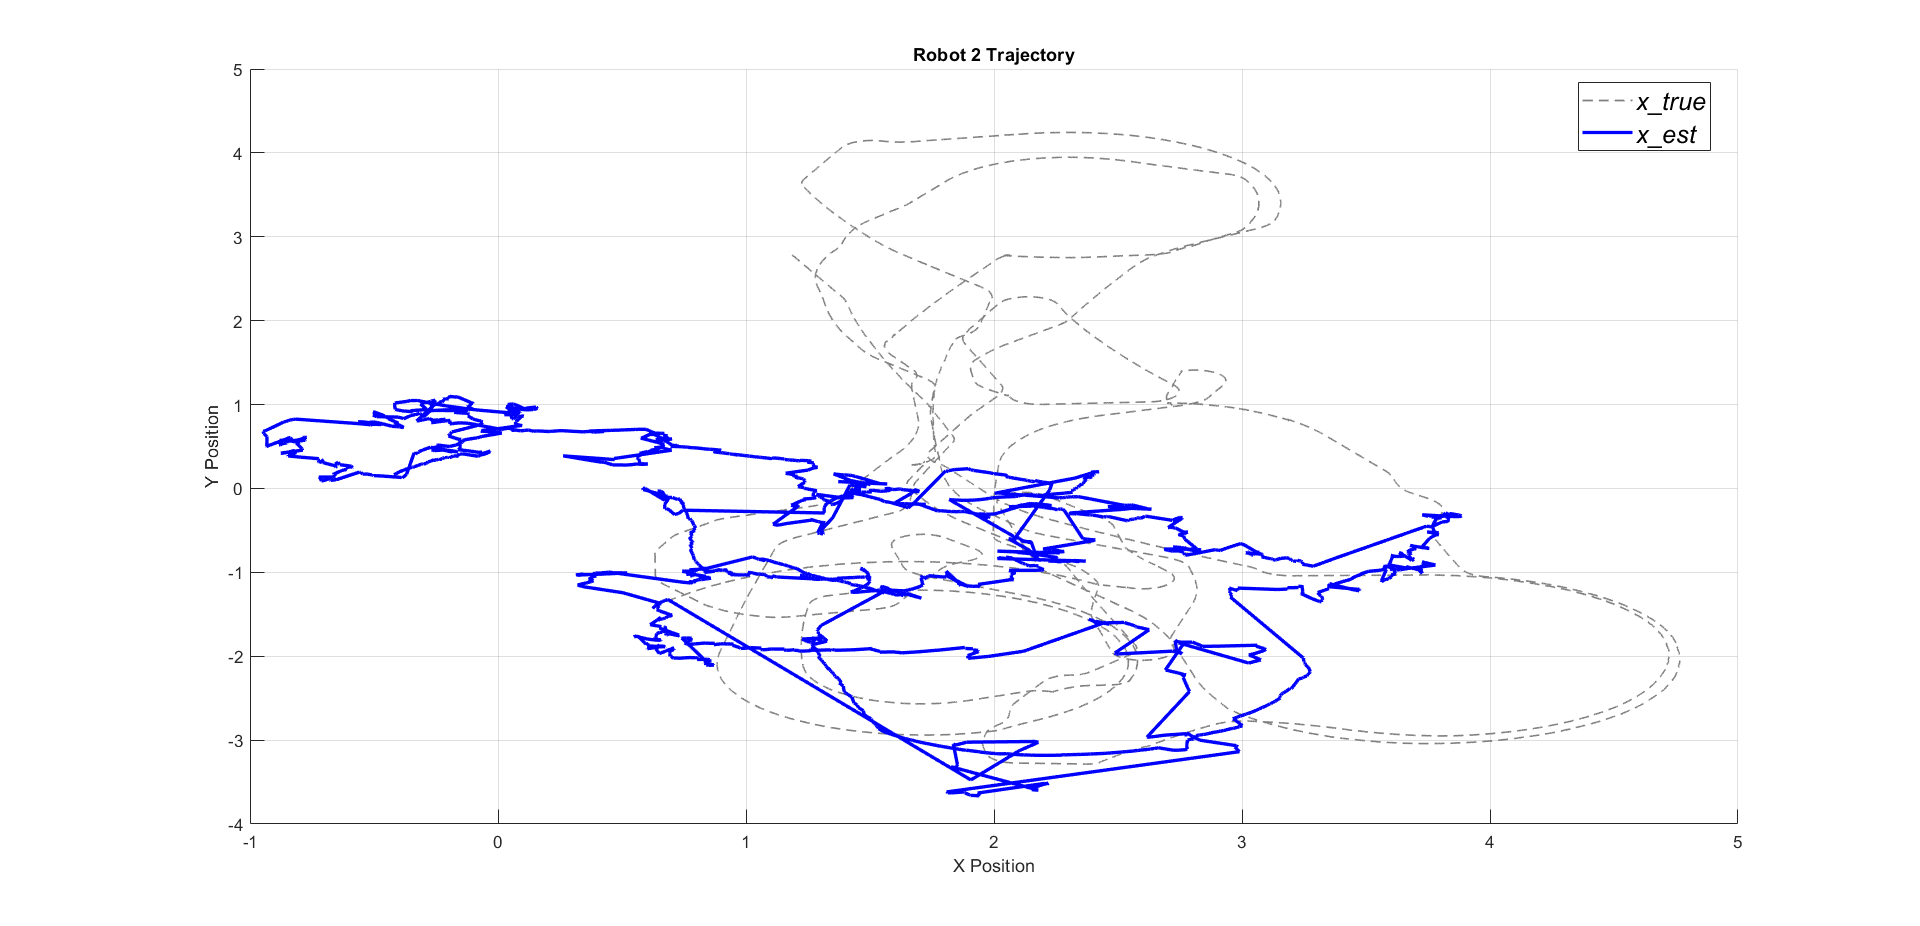
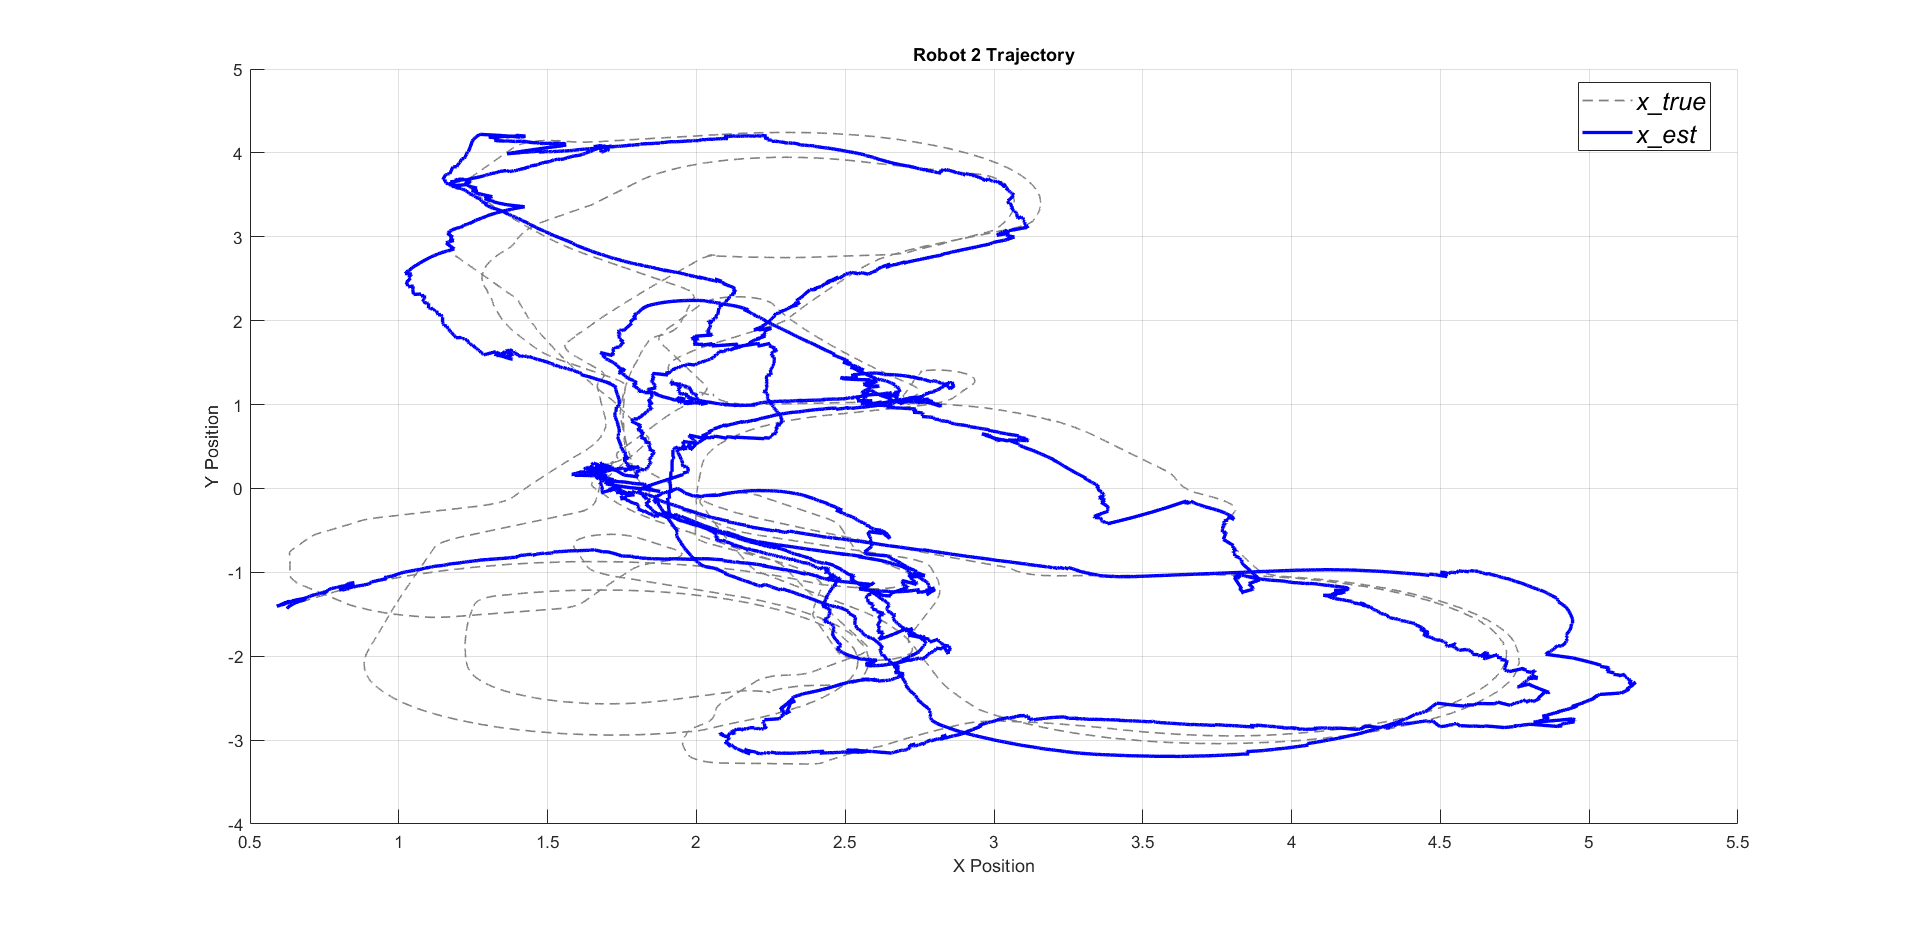
centralized ekf working

diff --git a/Aaron/Multi-Robot-Centralized/ekf_simulate.m b/Aaron/Multi-Robot-Centralized/ekf_simulate.m
@@ -1,6 +1,9 @@
 %% setup
-% simulate the first 100000 rows 
-sim_time = 100000;
+tstart = 9.4250;
+tfin = 1000;
+dt = 0.001;
+tarr = tstart:dt:tfin;
+tlen = length(tarr);
 
 % pose is 
 % [x1 ... x5 m1 ... m15]
@@ -18,66 +21,56 @@ for k = 1:15
     initial_guess_landmarks = [initial_guess_landmarks Landmark_Groundtruth(k,2:3)];
 end
 
-mu_ekf = NaN(sim_time,nx);  
+mu_ekf = NaN(tlen,nx);  
 mu_ekf(1,:) = [x0 initial_guess_landmarks]; 
-mu_pred = mu_ekf(1,:);
+% mu_pred = mu_ekf(1,:);
 clear x1_0 x2_0 x3_0 x4_0 x5_0
 
-sigma_ekf = NaN(nx*sim_time,nx);
-sigma_ekf(1:nx, 1:nx) = 7*eye(nx);         % initialize sigma_0|0 as 7I
+sigma_ekf = NaN(nx*tlen,nx);
+sigma_ekf(1:nx, 1:nx) = blkdiag(0.001*eye(15),1*eye(30));
 
 %% simulate
 k = 1;
 % t = Robot(1,1);
 u_prev = zeros(5,2); % row is for robot 1-5, col is the control input
 u_curr = zeros(5,2);
-t_prev = [Robot1(1,1); Robot2(1,1); Robot3(1,1); Robot4(1,1); Robot5(1,1)];
-dt = zeros(5,1);
-while (k < sim_time)
-    disp(k)
-    
-    for i = 1:n_robots
-        dt(i) = round(Robot(k,1) - t_prev(i), 3);
-        if (dt(i) < 0)
-            dt(i) = 0;
-        end
+control_update = false;
+for mu_idx = 1:tlen
+    t = tarr(mu_idx);
+    disp(t)
 
-        if (Robot(k,6) == i)
-            t_prev(i) = Robot(k,1);
+    if (abs(t-Robot(k,1)) < dt)
+        % update last control inputs and import measurement data, if any
+        ii = k;
+        y_tmp = [];
+        while Robot(ii,1) == Robot(k,1)
+            if Robot(ii,2) == 0
+                % control data
+                robot_num = Robot(ii,6);
+                u_curr(robot_num,:) = Robot(ii,3:4);
+                control_update = true;
+            else
+                % measurement data
+                y_tmp = [y_tmp; Robot(ii,3:6)]; % includes the robot number
+            end
+            ii = ii+1;
         end
-%         t = Robot(k,1);
-    end
-
-
-    % update last control inputs and import measurement data, if any
-    ii = k;
-    y_tmp = [];
-    while Robot(ii,1) == Robot(k,1)
-        if Robot(ii,2) == 0
-            % control data
-            robot_num = Robot(ii,6);
-            u_prev = u_curr;
-            u_curr(robot_num,:) = Robot(ii,3:4);
-        else
-            % measurement data
-            y_tmp = [y_tmp; Robot(ii,3:6)]; % includes the robot number
+        % sort measurements by robot num
+        if ~isempty(y_tmp)
+            y_tmp = sortrows(y_tmp,4);
         end
-        ii = ii+1;
-    end
-    % sort measurements by robot num
-    if ~isempty(y_tmp)
-        y_tmp = sortrows(y_tmp,4);
+        k = ii;
     end
 
 
     % PREDICTION
-    mu_pred = f(mu_ekf(k,:),u_prev,dt,n_robots);
+    mu_pred = f(mu_ekf(mu_idx,:),u_prev,dt,n_robots);
 
-    A = fjac(mu_ekf(k,:),u_prev,dt,n_robots,n_landmarks);
+    A = fjac(mu_ekf(mu_idx,:),u_prev,dt,n_robots,n_landmarks);
 %     Q = dt*[0.1*eye(3*n_robots) zeros(3*n_robots,2*n_landmarks); ...
 %         zeros(2*n_landmarks,3*n_robots) 0.01*eye(2*n_landmarks)];
-    Q = 0.01*max(dt)*eye(45);
-    sigma_pred = A * sigma_ekf(nx*k-nx+1:nx*k,:) * A' + Q;
+    Q = 0.01*dt*eye(45);
+    sigma_pred = A * sigma_ekf(nx*mu_idx-nx+1:nx*mu_idx,:) * A' + Q;
 
     % UPDATE
     if ~isempty(y_tmp)
@@ -134,12 +127,12 @@ while (k < sim_time)
             yidx = j;
         end
 
-        R = 0.1*eye(size(y,1));
+        R = 1*eye(size(y,1));
         K = sigma_pred * C' / (C*sigma_pred*C' + R);
 
         % finish up update step and fix indices
-        mu_ekf(k+1,:) = mu_pred + (K * (y - g))';
-        sigma_ekf(nx*k+1:nx*k+nx,:) = sigma_pred - K * C * sigma_pred;
+        mu_ekf(mu_idx+1,:) = mu_pred + (K * (y - g))';
+        sigma_ekf(nx*mu_idx+1:nx*mu_idx+nx,:) = sigma_pred - K * C * sigma_pred;
         
 %         for i = k+2:ii+1
 %             mu_ekf(k,:) = mu_ekf(k+1,:);
@@ -147,12 +140,15 @@ while (k < sim_time)
 %         end
 %         k = ii + 1;
     else
-       mu_ekf(k+1,:) = mu_pred;
-       sigma_ekf(nx*k+1:nx*k+nx,:) = sigma_pred;
+       mu_ekf(mu_idx+1,:) = mu_pred;
+       sigma_ekf(nx*mu_idx+1:nx*mu_idx+nx,:) = sigma_pred;
 
     end
 
-    k = k + 1;
+    if (control_update)
+        u_prev = u_curr;
+        control_update = false;
+    end
 end
 
 % dynamics model for 5 robots
@@ -171,7 +167,7 @@ function xpred = f(x,u,dt,n_robots)
         v = u(i,1); om = u(i,2);
 
         % calculate dynamics
-        xpred(idx:idx+2) = [px py th] + dt(i)*[v*cos(th) v*sin(th) om];
+        xpred(idx:idx+2) = [px py th] + dt*[v*cos(th) v*sin(th) om];
     end
 end
 
@@ -181,8 +177,8 @@ function A = fjac(x,u,dt,n_robots,n_landmarks)
         idx = 3*(i-1) + 1;
         th = x(idx+2); v = u(i,1);
         A_pose(idx:idx+2,idx:idx+2) = ...
-            [1 0 -dt(i)*v*sin(th);...
-             0 1  dt(i)*v*cos(th);...
+            [1 0 -dt*v*sin(th);...
+             0 1  dt*v*cos(th);...
              0 0             1];
     end
     A_landmark = eye(2*n_landmarks);

diff --git a/Aaron/Multi-Robot-Centralized/ekf_simulate_old.m b/Aaron/Multi-Robot-Centralized/ekf_simulate_old.m
@@ -1,9 +1,6 @@
 %% setup
-tstart = 9.4250;
-tfin = 100;
-dt = 0.001;
-tarr = tstart:dt:tfin;
-tlen = length(tarr);
+% simulate the first 100000 rows 
+sim_time = 100000;
 
 % pose is 
 % [x1 ... x5 m1 ... m15]
@@ -21,12 +18,12 @@ for k = 1:15
     initial_guess_landmarks = [initial_guess_landmarks Landmark_Groundtruth(k,2:3)];
 end
 
-mu_ekf = NaN(tlen,nx);  
+mu_ekf = NaN(sim_time,nx);  
 mu_ekf(1,:) = [x0 initial_guess_landmarks]; 
-% mu_pred = mu_ekf(1,:);
+mu_pred = mu_ekf(1,:);
 clear x1_0 x2_0 x3_0 x4_0 x5_0
 
-sigma_ekf = NaN(nx*tlen,nx);
+sigma_ekf = NaN(nx*sim_time,nx);
 sigma_ekf(1:nx, 1:nx) = blkdiag(0.001*eye(15),1*eye(30));
 
 %% simulate
@@ -34,43 +31,53 @@ k = 1;
 % t = Robot(1,1);
 u_prev = zeros(5,2); % row is for robot 1-5, col is the control input
 u_curr = zeros(5,2);
-control_update = false;
-for mu_idx = 1:tlen
-    t = tarr(mu_idx);
-    disp(t)
+t_prev = [Robot1(1,1); Robot2(1,1); Robot3(1,1); Robot4(1,1); Robot5(1,1)];
+dt = zeros(5,1);
+while (k < sim_time)
+    disp(k)
+    
+    for i = 1:n_robots
+        dt(i) = round(Robot(k,1) - t_prev(i), 3);
+        if (dt(i) < 0)
+            dt(i) = 0;
+        end
 
-    if (t == round(Robot(k,1),3))
-        % update last control inputs and import measurement data, if any
-        ii = k;
-        y_tmp = [];
-        while Robot(ii,1) == Robot(k,1)
-            if Robot(ii,2) == 0
-                % control data
-                robot_num = Robot(ii,6);
-                u_curr(robot_num,:) = Robot(ii,3:4);
-                control_update = true;
-            else
-                % measurement data
-                y_tmp = [y_tmp; Robot(ii,3:6)]; % includes the robot number
-            end
-            ii = ii+1;
+        if (Robot(k,6) == i)
+            t_prev(i) = Robot(k,1);
         end
-        % sort measurements by robot num
-        if ~isempty(y_tmp)
-            y_tmp = sortrows(y_tmp,4);
+%         t = Robot(k,1);
+    end
+
+
+    % update last control inputs and import measurement data, if any
+    ii = k;
+    y_tmp = [];
+    while Robot(ii,1) == Robot(k,1)
+        if Robot(ii,2) == 0
+            % control data
+            robot_num = Robot(ii,6);
+            u_prev = u_curr;
+            u_curr(robot_num,:) = Robot(ii,3:4);
+        else
+            % measurement data
+            y_tmp = [y_tmp; Robot(ii,3:6)]; % includes the robot number
         end
-        k = ii + 1;
+        ii = ii+1;
+    end
+    % sort measurements by robot num
+    if ~isempty(y_tmp)
+        y_tmp = sortrows(y_tmp,4);
     end
 
 
     % PREDICTION
-    mu_pred = f(mu_ekf(mu_idx,:),u_prev,dt,n_robots);
+    mu_pred = f(mu_ekf(k,:),u_prev,dt,n_robots);
 
-    A = fjac(mu_ekf(mu_idx,:),u_prev,dt,n_robots,n_landmarks);
+    A = fjac(mu_ekf(k,:),u_prev,dt,n_robots,n_landmarks);
 %     Q = dt*[0.1*eye(3*n_robots) zeros(3*n_robots,2*n_landmarks); ...
 %         zeros(2*n_landmarks,3*n_robots) 0.01*eye(2*n_landmarks)];
-    Q = 0.01*dt*eye(45);
-    sigma_pred = A * sigma_ekf(nx*mu_idx-nx+1:nx*mu_idx,:) * A' + Q;
+    Q = 0.01*max(dt)*eye(45);
+    sigma_pred = A * sigma_ekf(nx*k-nx+1:nx*k,:) * A' + Q;
 
     % UPDATE
     if ~isempty(y_tmp)
@@ -127,12 +134,12 @@ for mu_idx = 1:tlen
             yidx = j;
         end
 
-        R = 1*eye(size(y,1));
+        R = 3*eye(size(y,1));
         K = sigma_pred * C' / (C*sigma_pred*C' + R);
 
         % finish up update step and fix indices
-        mu_ekf(mu_idx+1,:) = mu_pred + (K * (y - g))';
-        sigma_ekf(nx*mu_idx+1:nx*mu_idx+nx,:) = sigma_pred - K * C * sigma_pred;
+        mu_ekf(k+1,:) = mu_pred + (K * (y - g))';
+        sigma_ekf(nx*k+1:nx*k+nx,:) = sigma_pred - K * C * sigma_pred;
         
 %         for i = k+2:ii+1
 %             mu_ekf(k,:) = mu_ekf(k+1,:);
@@ -140,15 +147,12 @@ for mu_idx = 1:tlen
 %         end
 %         k = ii + 1;
     else
-       mu_ekf(mu_idx+1,:) = mu_pred;
-       sigma_ekf(nx*mu_idx+1:nx*mu_idx+nx,:) = sigma_pred;
+       mu_ekf(k+1,:) = mu_pred;
+       sigma_ekf(nx*k+1:nx*k+nx,:) = sigma_pred;
 
     end
 
-    if (control_update)
-        u_prev = u_curr;
-        control_update = false;
-    end
+    k = k + 1;
 end
 
 % dynamics model for 5 robots
@@ -167,7 +171,7 @@ function xpred = f(x,u,dt,n_robots)
         v = u(i,1); om = u(i,2);
 
         % calculate dynamics
-        xpred(idx:idx+2) = [px py th] + dt*[v*cos(th) v*sin(th) om];
+        xpred(idx:idx+2) = [px py th] + dt(i)*[v*cos(th) v*sin(th) om];
     end
 end
 
@@ -177,8 +181,8 @@ function A = fjac(x,u,dt,n_robots,n_landmarks)
         idx = 3*(i-1) + 1;
         th = x(idx+2); v = u(i,1);
         A_pose(idx:idx+2,idx:idx+2) = ...
-            [1 0 -dt*v*sin(th);...
-             0 1  dt*v*cos(th);...
+            [1 0 -dt(i)*v*sin(th);...
+             0 1  dt(i)*v*cos(th);...
              0 0             1];
     end
     A_landmark = eye(2*n_landmarks);

diff --git a/Aaron/Multi-Robot-Centralized/get_Cref.m b/Aaron/Multi-Robot-Centralized/get_Cref.m
@@ -3,7 +3,7 @@ function Cref = get_Cref(m10x,m10y,m11x,m11y,m12x,m12y,m13x,m13y,m14x,m14y,m15x,
 %    Cref = get_Cref(M10X,M10Y,M11X,M11Y,M12X,M12Y,M13X,M13Y,M14X,M14Y,M15X,M15Y,M1X,M2X,M3X,M4X,M5X,M6X,M7X,M8X,M9X,M1Y,M2Y,M3Y,M4Y,M5Y,M6Y,M7Y,M8Y,M9Y,P1X,P2X,P3X,P4X,P5X,P1Y,P2Y,P3Y,P4Y,P5Y,TH1,TH2,TH3,TH4,TH5)
 
 %    This function was generated by the Symbolic Math Toolbox version 9.0.
-%    03-Jun-2023 22:40:21
+%    05-Jun-2023 19:50:23
 
 t2 = cos(th1);
 t3 = cos(th2);

diff --git a/Aaron/Multi-Robot-Centralized/get_gref.m b/Aaron/Multi-Robot-Centralized/get_gref.m
@@ -3,7 +3,7 @@ function gref = get_gref(m10x,m10y,m11x,m11y,m12x,m12y,m13x,m13y,m14x,m14y,m15x,
 %    GREF = GET_GREF(M10X,M10Y,M11X,M11Y,M12X,M12Y,M13X,M13Y,M14X,M14Y,M15X,M15Y,M1X,M2X,M3X,M4X,M5X,M6X,M7X,M8X,M9X,M1Y,M2Y,M3Y,M4Y,M5Y,M6Y,M7Y,M8Y,M9Y,P1X,P2X,P3X,P4X,P5X,P1Y,P2Y,P3Y,P4Y,P5Y,TH1,TH2,TH3,TH4,TH5)
 
 %    This function was generated by the Symbolic Math Toolbox version 9.0.
-%    03-Jun-2023 22:40:03
+%    05-Jun-2023 19:50:07
 
 t2 = cos(th1);
 t3 = cos(th2);
